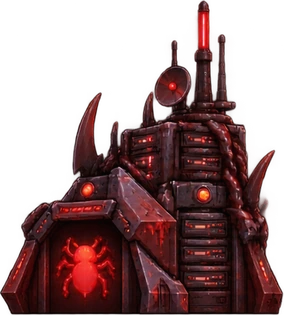
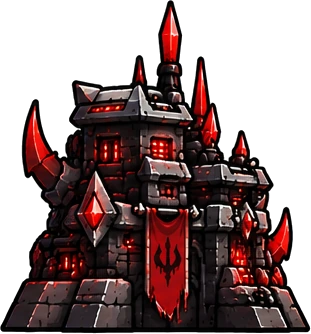
feat(siege): five enemy fortress looks
Claude-Session: https://claude.ai/code/session_01D7UBrhj4BdB81o1BiFmQxC

diff --git a/bug-hunter/src/siege/cartoon/view.ts b/bug-hunter/src/siege/cartoon/view.ts
@@ -42,7 +42,7 @@ export function preload(world: number, deck: number[], _levels: number[] = []) {
   const specs = [...deck.map(c => specAt(c % 100, Math.floor(c / 100) + 1)), ...foes.map(id => UNITS[id])];
   specs.forEach(spec => { for (let f = 0; f < (spec.six ? 6 : 3); f++) picture(`${spec.sprite}-${f}`); });
   // The battlefield, and the fortresses and crossbow at every level (the workshop can change ours between battles).
-  [sceneOf(world), ...[...SHOTS, ...SPELLS].map(n => `siege/units/shot-${n}`), ...[1, 2, 3, 4].map(n => `siege/units/bolt-${n}`), ...[1, 2, 3, 4, 5].flatMap(n => [`siege/castle-${n}`, ...(n < 5 ? [`siege/xbow-${n}`] : []), ...(n < 4 ? [`siege/enemy-${n}`] : [])]), ...FX].forEach(still);
+  [sceneOf(world), ...[...SHOTS, ...SPELLS].map(n => `siege/units/shot-${n}`), ...[1, 2, 3, 4].map(n => `siege/units/bolt-${n}`), ...[1, 2, 3, 4, 5].flatMap(n => [`siege/castle-${n}`, ...(n < 5 ? [`siege/xbow-${n}`] : []), `siege/enemy-${n}`]), ...FX].forEach(still);
 }
 /** The battlefield, a picture per world (the owner's: clean on our side, corrupt on the enemy's), drawn across the
     field with `pad` field units past each end, its walking ground (`ground`, a share of its height) on the troops'
@@ -73,7 +73,7 @@ function still(path: string) {
 const ok = (image: HTMLImageElement) => image.complete && image.naturalWidth > 0;
 /** CSS pixels kept clear left of the field for the aim control. */
 const AIM_GUTTER = 60;
-/** The fortresses, side on (`siege/castle-N` ours, facing right; `siege/enemy-N` theirs, facing left): three pictures
+/** The fortresses, side on (`siege/castle-N` ours, facing right; `siege/enemy-N` theirs, facing left): five pictures
     each, ours by its workshop level, theirs by world (`looksTier`, `enemyTier`). `h` is the height drawn in field
     units; `deck` how far its foot sinks under the ground line. Our crossbow stands on the battlement at the top right:
     `bow` is that spot as fractions of the picture (x from the left, y from the top). */
@@ -84,7 +84,7 @@ const CASTLES = [
   { h: 325, deck: 8, bow: [0.73, 0.32] },
   { h: 365, deck: 8, bow: [0.81, 0.405] },
 ] as const;
-const ENEMY_H = [220, 248, 273];
+const ENEMY_H = [200, 235, 270, 310, 350];
 /** Our crossbow in its turret (`siege/xbow-N`, by the Bow level: three crossbows and a rocket launcher), one picture
     pointing right drawn `width` field units wide, turning on its wheel (`pivot`, fractions of the picture) towards where
     the arrows go and kicking back a little at each shot. */

diff --git a/bug-hunter/src/siege/cartoon/model.ts b/bug-hunter/src/siege/cartoon/model.ts
@@ -355,8 +355,8 @@ const growAt = (stage: number) => 1 + GROW * (Math.min(LAST, Math.max(1, stage))
 export const looksTier = (level: number) => (level >= 5 ? 4 : level >= 4 ? 3 : level >= 2 ? 2 : 1);
 /** Which of the five castle pictures a workshop level (0-5) shows for our fortress. */
 export const castleTier = (level: number) => Math.max(1, Math.min(5, level));
-/** Which of the enemy fortress's three pictures a battle shows, by its act: acts 1-2, 3-4, 5-6. */
-export const enemyTier = (stage: number) => Math.min(3, Math.max(1, Math.ceil(actOf(stage) / 2)));
+/** Which of the enemy fortress's five pictures a battle shows, by its act (six acts: 1, 2, 3, 4, 4, 5). */
+export const enemyTier = (stage: number) => [1, 2, 3, 4, 4, 5][Math.min(ACTS, Math.max(1, actOf(stage))) - 1];
 
 export const energyMax = (s: Siege) => 180 + s.generator * 70;
 export const energyRate = (s: Siege) => 7 + s.generator * 2.5 + s.economy;

diff --git a/bug-hunter/src/version.ts b/bug-hunter/src/version.ts
@@ -4,7 +4,7 @@
  * This folder migration preserves the public game URL, saves and gameplay.
  * The build stamp changes automatically on each deployment.
  */
-export const GAME_VERSION = '1.15.45';
+export const GAME_VERSION = '1.15.46';
 
 declare const __GAME_BUILD__: { commit: string; built: string };
 /** Build stamp from the shared Vite configuration; safe outside Vite too. */

diff --git a/bug-hunter/CHANGELOG.md b/bug-hunter/CHANGELOG.md
@@ -4,6 +4,11 @@
 
 This changelog tracks game-version changes starting with v1.12.55. Earlier releases are not reconstructed here.
 
+## 1.15.46 - 2026-10-27
+
+### Changed
+- Siege Cartoon: the enemy fortress has five looks (the owner's new dark castles) instead of three: acts 1, 2 and 3 show the first three, acts 4 and 5 the fourth and the last act the fifth, with the skull.
+
 ## 1.15.45 - 2026-10-27
 
 ### Fixed
